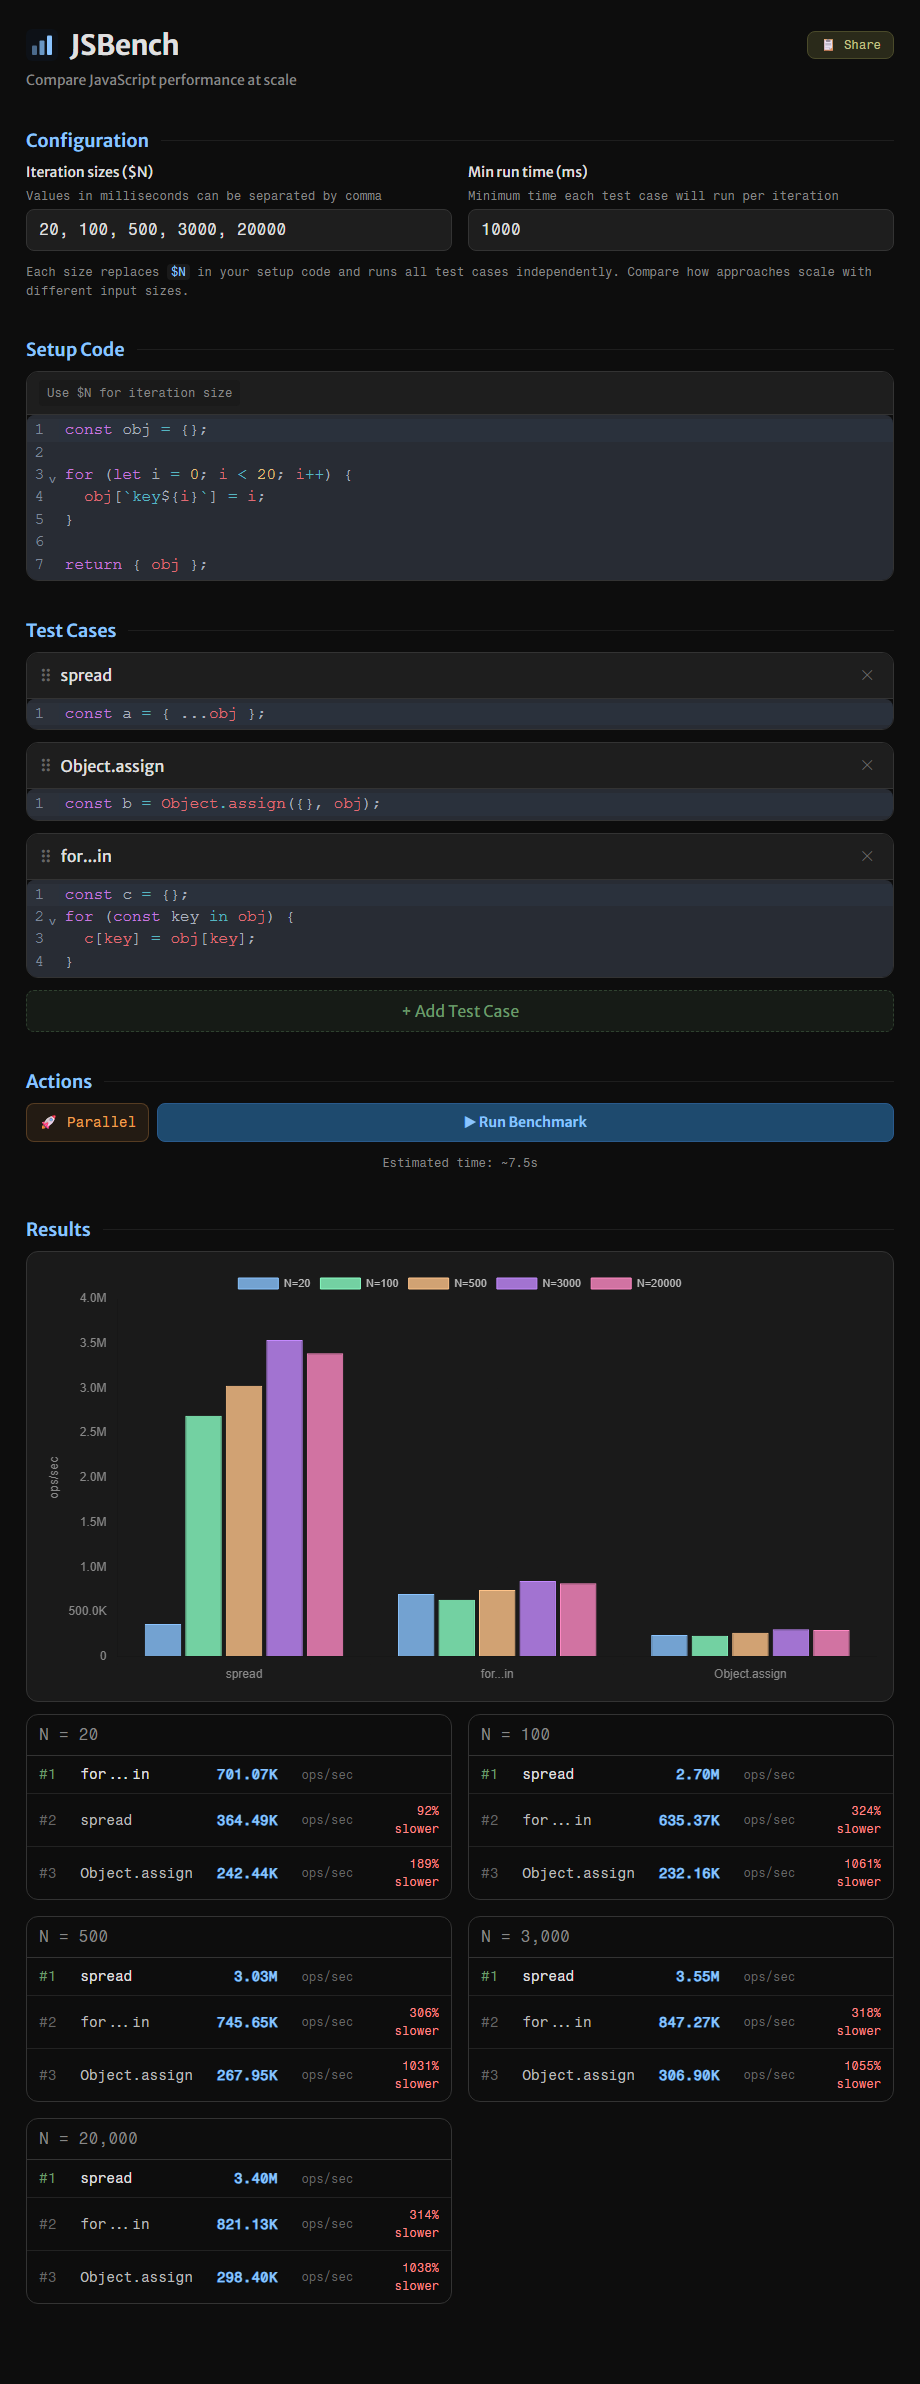
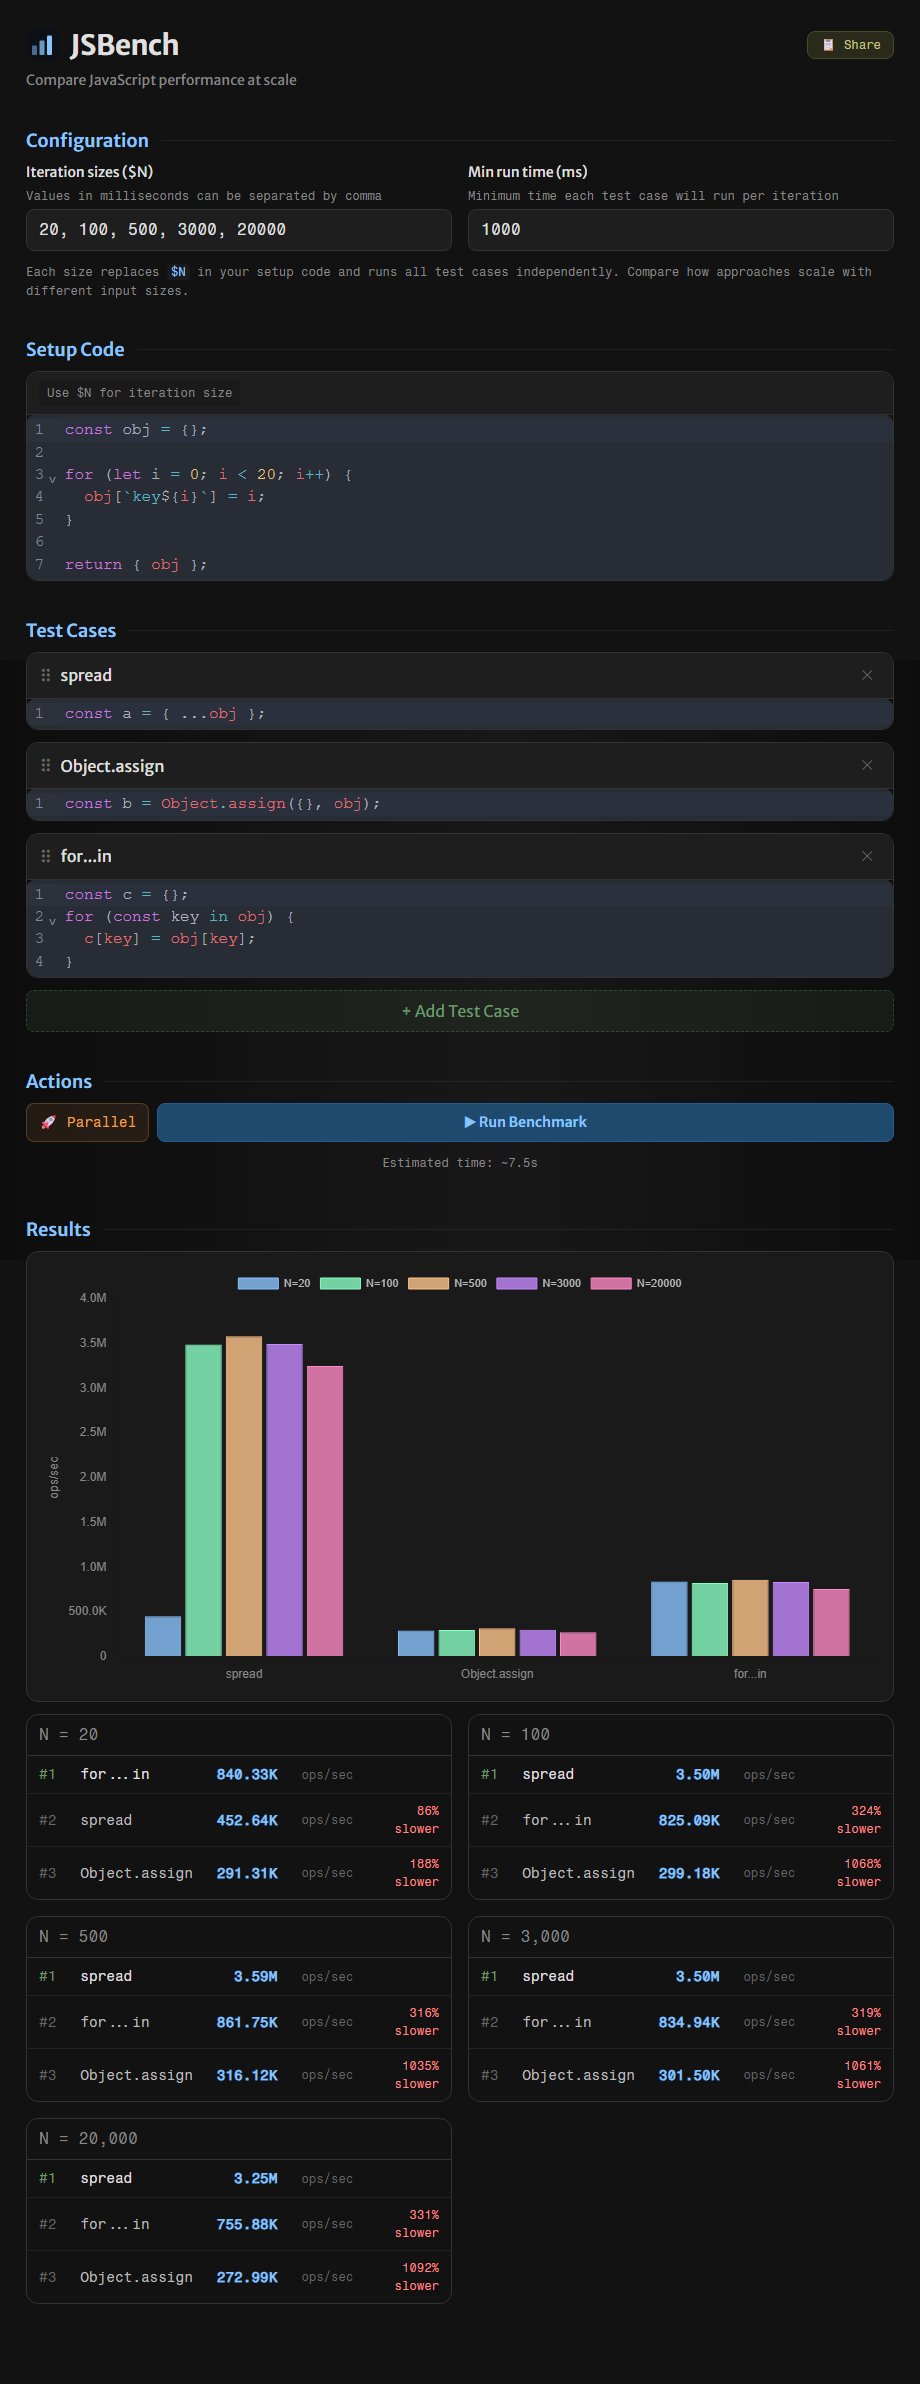
style: background gradient

diff --git a/src/routes/layout.css b/src/routes/layout.css
@@ -20,6 +20,9 @@
 	--color-surface: #1a1a1a;
 	--color-surface-raised: #1e1e1e;
 
+	/* Gradient */
+	--gradient-bg: linear-gradient(90deg, #0d0d0d 0%, #141414 35%, #181818 55%, #0d0d0d 100%);
+
 	/* Colors - Border */
 	--color-border: #333;
 	--color-border-subtle: #222;
@@ -89,11 +92,13 @@
 }
 
 body {
-	background: var(--color-bg);
+	background: var(--gradient-bg);
+	background-attachment: fixed;
 	color: var(--color-text);
 	font-family: var(--font-sans);
 	margin: 0;
 	padding: 0;
+	min-height: 100vh;
 }
 
 *,
